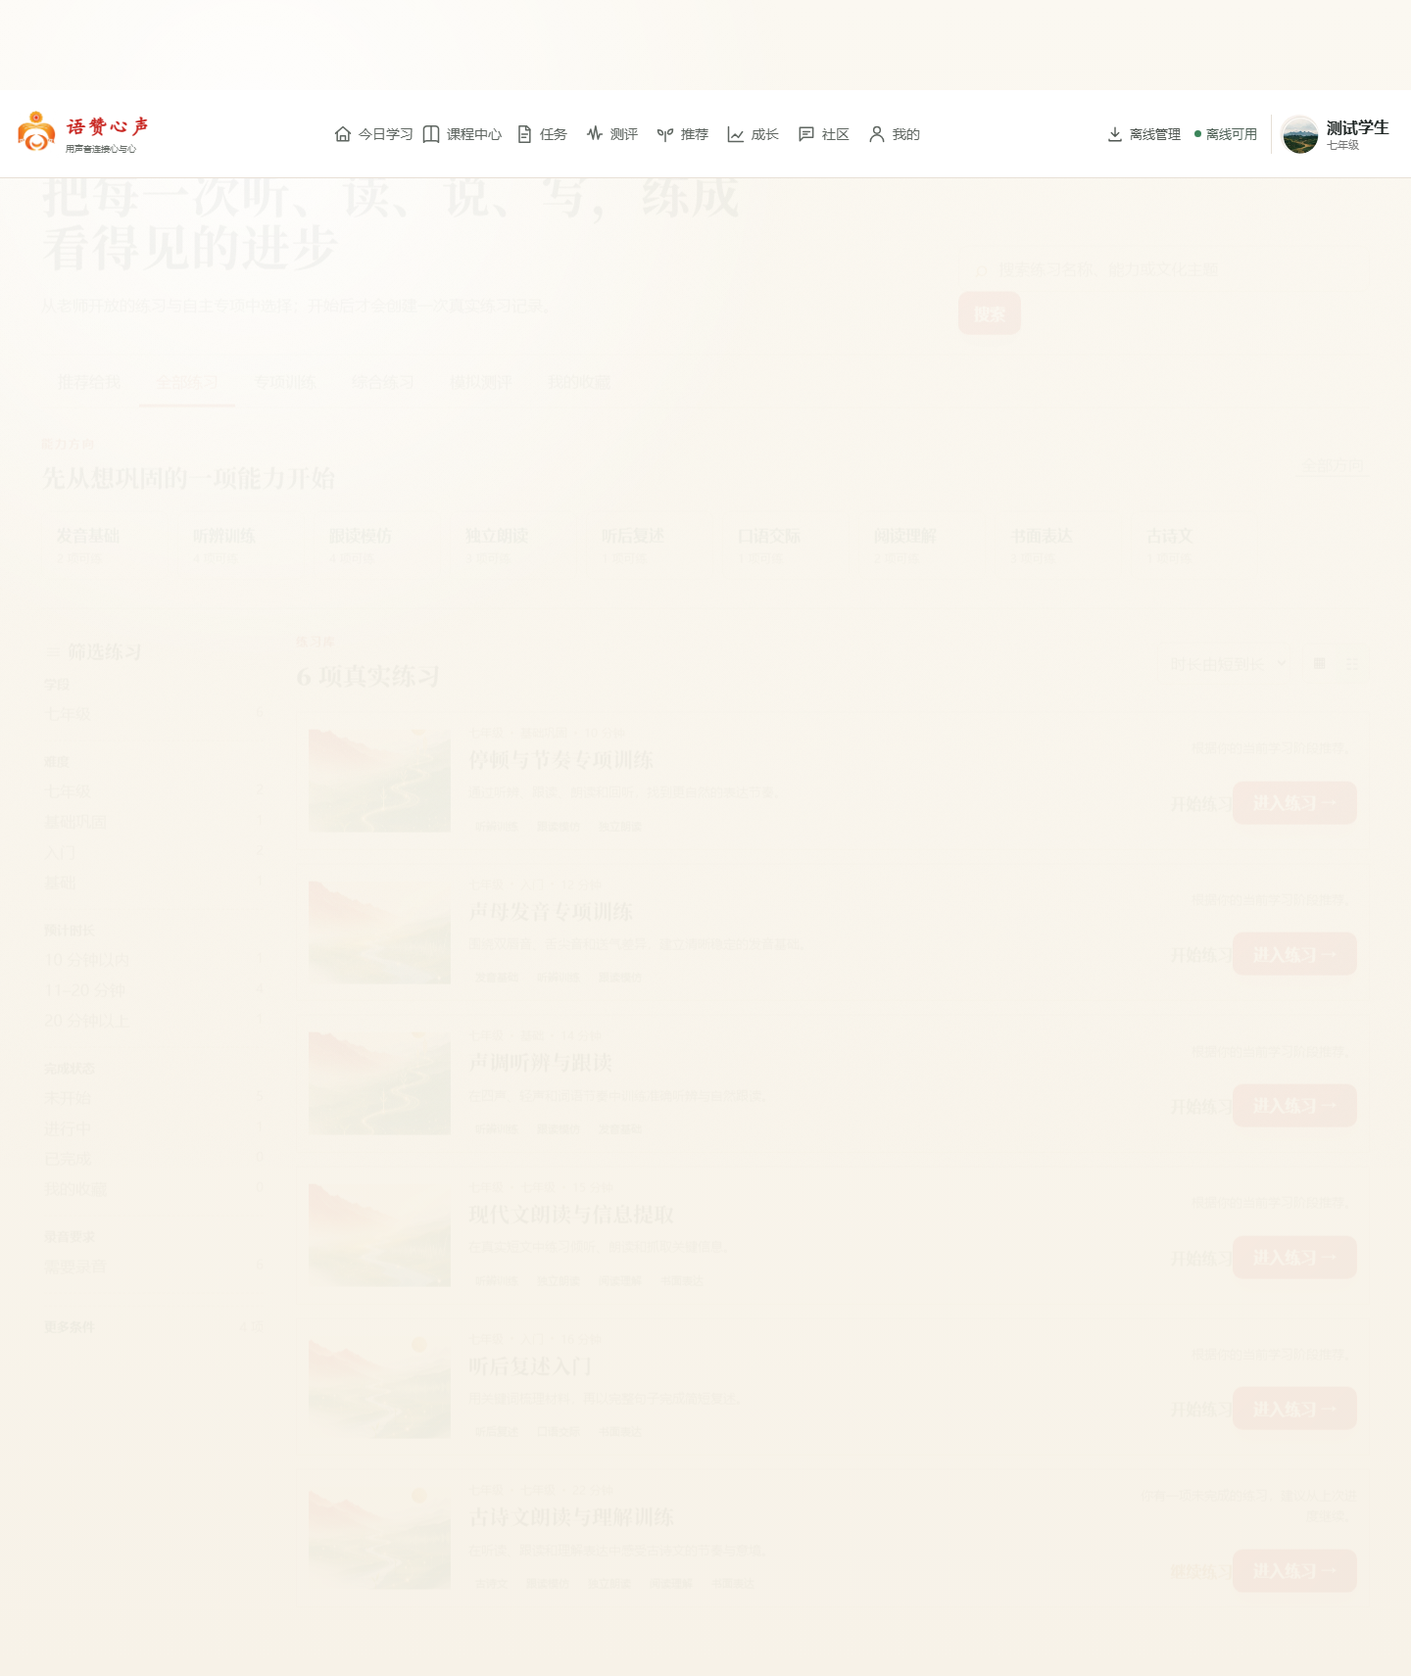
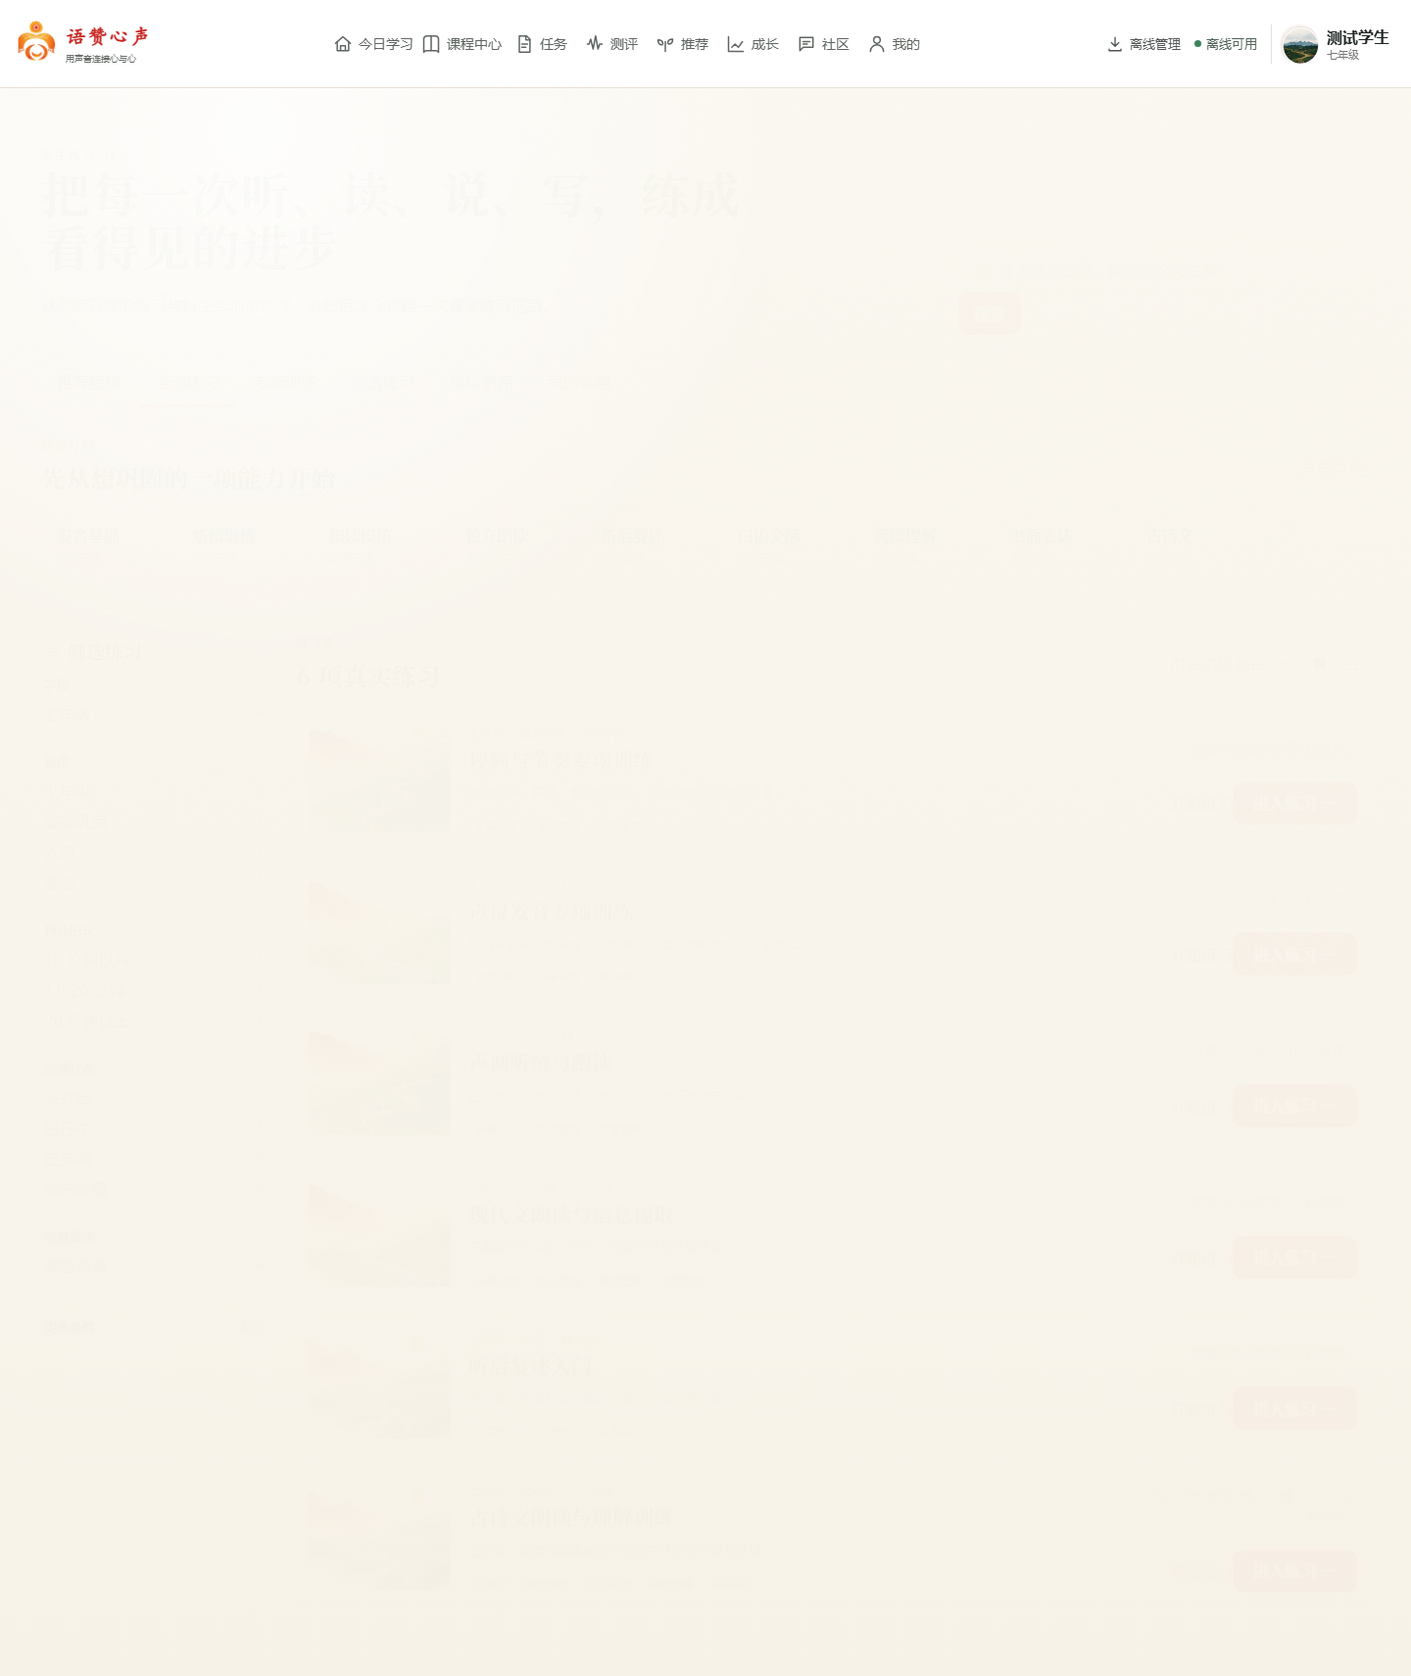
fix: keep catalog results stable while filtering

diff --git a/web-runtime/assessment/assets/practice.css b/web-runtime/assessment/assets/practice.css
@@ -8,7 +8,7 @@
 .catalog-tabs { display:flex; align-items:center; gap:2px; overflow-x:auto; border-top:1px solid var(--catalog-line); border-bottom:1px solid var(--catalog-line); }.catalog-tabs button { flex:0 0 auto; padding:16px 17px 13px; border:0; border-bottom:3px solid transparent; background:transparent; color:#5c685e; cursor:pointer; font:600 14px/1 inherit; }.catalog-tabs button.active { color:var(--catalog-clay); border-bottom-color:var(--catalog-clay); }
 .catalog-ability { padding:28px 0 25px; }.catalog-section-head,.result-toolbar,.filter-heading,.section-title { display:flex; justify-content:space-between; gap:16px; align-items:center; }.catalog-section-head h2,.result-toolbar h2 { margin:0; color:var(--catalog-ink); font-family:Georgia,"Noto Serif SC",serif; font-size:25px; }.text-action { color:var(--catalog-pine); border:0; border-bottom:1px solid currentColor; background:transparent; cursor:pointer; font:inherit; }.text-action.selected { opacity:.55; }
 .ability-rail { display:flex; gap:9px; margin-top:17px; overflow-x:auto; padding-bottom:4px; }.ability-button { min-width:130px; padding:13px 15px; text-align:left; border:1px solid #d8dfd4; border-radius:8px; background:#fcfbf6; color:var(--catalog-pine); cursor:pointer; transition:transform .2s,border-color .2s,background .2s; }.ability-button:hover,.ability-button.selected { transform:translateY(-2px); border-color:var(--catalog-ochre); background:#fff4df; }.ability-button b,.ability-button small { display:block; }.ability-button small { margin-top:5px; color:#7a837a; font-size:12px; }
-.catalog-workbench { display:grid; grid-template-columns:230px minmax(0,1fr); gap:30px; padding-top:25px; border-top:1px solid var(--catalog-line); }.catalog-filters { align-self:start; padding:4px 3px 10px; }.filter-heading h2 { margin:0; color:var(--catalog-ink); font:700 19px Georgia,"Noto Serif SC",serif; }.filter-group { padding:12px 0; border-bottom:1px dashed #d8d0bf; }.filter-group h3 { margin:0 0 6px; color:#56635b; font-size:13px; }.facet-chip { display:flex; justify-content:space-between; width:100%; padding:5px 0; border:0; background:transparent; color:#6d756f; cursor:pointer; text-align:left; font:13px/1.4 inherit; }.facet-chip:hover,.facet-chip.selected { color:var(--catalog-clay); font-weight:700; }.facet-chip small { color:#9b968c; }.more-filters { margin-top:12px; border-top:1px dashed #d8d0bf; }.more-filters summary { display:flex; justify-content:space-between; padding:12px 0; color:var(--catalog-pine); cursor:pointer; font-size:13px; font-weight:700; list-style:none; }.more-filters summary::-webkit-details-marker { display:none; }.more-filters summary span { color:#9b968c; font-weight:400; }.more-filters[open] summary { color:var(--catalog-clay); }.catalog-results { min-width:0; }.result-toolbar { margin-bottom:20px; }.result-actions { display:flex; align-items:center; gap:12px; }.result-actions select { border:1px solid var(--catalog-line); border-radius:7px; background:#fffdfa; padding:9px; color:#4f5d53; }.view-switch { display:flex; border:1px solid var(--catalog-line); border-radius:7px; overflow:hidden; }.view-switch button { padding:8px 10px; border:0; background:#fffdfa; cursor:pointer; }.view-switch button.active { background:#e8eee7; color:var(--catalog-pine); }.active-filter-row { display:flex; flex-wrap:wrap; gap:7px; margin-top:10px; }.active-filter { padding:5px 9px; border:1px solid #d7b67a; border-radius:99px; background:#fff6e6; color:#8d5d19; cursor:pointer; }
+.catalog-workbench { display:grid; grid-template-columns:230px minmax(0,1fr); gap:30px; padding-top:25px; border-top:1px solid var(--catalog-line); }.catalog-filters { align-self:start; padding:4px 3px 10px; }.filter-heading h2 { margin:0; color:var(--catalog-ink); font:700 19px Georgia,"Noto Serif SC",serif; }.filter-group { padding:12px 0; border-bottom:1px dashed #d8d0bf; }.filter-group h3 { margin:0 0 6px; color:#56635b; font-size:13px; }.facet-chip { display:flex; justify-content:space-between; width:100%; padding:5px 0; border:0; background:transparent; color:#6d756f; cursor:pointer; text-align:left; font:13px/1.4 inherit; }.facet-chip:hover,.facet-chip.selected { color:var(--catalog-clay); font-weight:700; }.facet-chip small { color:#9b968c; }.more-filters { margin-top:12px; border-top:1px dashed #d8d0bf; }.more-filters summary { display:flex; justify-content:space-between; padding:12px 0; color:var(--catalog-pine); cursor:pointer; font-size:13px; font-weight:700; list-style:none; }.more-filters summary::-webkit-details-marker { display:none; }.more-filters summary span { color:#9b968c; font-weight:400; }.more-filters[open] summary { color:var(--catalog-clay); }.catalog-results { min-width:0; position:relative; }.catalog-results.is-refreshing .practice-grid,.catalog-results.is-refreshing .practice-list { opacity:.72; transition:opacity .14s ease; }.catalog-refreshing { position:absolute; top:3px; right:0; display:inline-flex; align-items:center; gap:6px; color:#9a681e; font-size:12px; }.catalog-refreshing:before { content:""; width:7px; height:7px; border:1px solid #b77725; border-top-color:transparent; border-radius:50%; animation:catalog-spin .7s linear infinite; }@keyframes catalog-spin { to { transform:rotate(360deg); } }.result-toolbar { margin-bottom:20px; }.result-actions { display:flex; align-items:center; gap:12px; }.result-actions select { border:1px solid var(--catalog-line); border-radius:7px; background:#fffdfa; padding:9px; color:#4f5d53; }.view-switch { display:flex; border:1px solid var(--catalog-line); border-radius:7px; overflow:hidden; }.view-switch button { padding:8px 10px; border:0; background:#fffdfa; cursor:pointer; }.view-switch button.active { background:#e8eee7; color:var(--catalog-pine); }.active-filter-row { display:flex; flex-wrap:wrap; gap:7px; margin-top:10px; }.active-filter { padding:5px 9px; border:1px solid #d7b67a; border-radius:99px; background:#fff6e6; color:#8d5d19; cursor:pointer; }
 .practice-grid { display:grid; grid-template-columns:repeat(3,minmax(0,1fr)); gap:22px; }.practice-tile { overflow:hidden; border:1px solid var(--catalog-line); background:#fffefa; box-shadow:0 12px 30px rgba(54,51,38,.06); }.practice-cover { position:relative; display:block; height:185px; overflow:hidden; background:#d7dfd4; }.practice-cover img { width:100%; height:100%; object-fit:cover; transition:transform .45s ease; }.practice-tile:hover .practice-cover img { transform:scale(1.05); }.cover-shade { position:absolute; inset:0; background:linear-gradient(180deg,transparent 35%,rgba(29,49,38,.48)); }.practice-kind { position:absolute; left:13px; bottom:11px; padding:5px 8px; background:rgba(255,251,242,.88); color:#386052; font-size:12px; }.favorite-button { position:absolute; top:10px; right:10px; width:32px; height:32px; border:0; border-radius:50%; background:rgba(255,253,248,.9); color:var(--catalog-ochre); cursor:pointer; font-size:18px; }.favorite-button.is-favorite { color:var(--catalog-clay); }.practice-tile-body { padding:16px 17px 14px; }.practice-tile h2,.practice-row h2 { margin:8px 0; font:700 21px/1.25 Georgia,"Noto Serif SC",serif; color:var(--catalog-ink); }.practice-tile h2 a { color:inherit; text-decoration:none; }.practice-tile p,.practice-row p { margin:0; color:#6d766e; font-size:13px; line-height:1.65; }.practice-tile-meta { display:flex; flex-wrap:wrap; align-items:center; gap:7px; color:#8b8272; font-size:12px; }.practice-tile-meta i { width:3px; height:3px; border-radius:50%; background:#b69d79; }.tag-row { display:flex; flex-wrap:wrap; gap:5px; margin-top:12px; }.tag-row span { padding:4px 7px; background:#f1f4ee; color:#526859; font-size:11px; }.practice-tile-foot { display:flex; align-items:center; justify-content:space-between; gap:8px; margin-top:16px; padding-top:12px; border-top:1px solid #ece6d9; font-size:12px; }.practice-tile-foot a { color:var(--catalog-pine); text-decoration:none; }.practice-state-label { color:#5c775f; font-weight:700; }.practice-state-label.in_progress { color:#aa711e; }.practice-state-label.completed { color:#658176; }
 .practice-list { display:grid; gap:14px; }.practice-row { display:grid; grid-template-columns:145px minmax(0,1fr) 230px; gap:18px; align-items:center; padding:12px; border:1px solid var(--catalog-line); background:#fffefa; }.practice-row>img { width:145px; height:105px; object-fit:cover; }.practice-row-state { text-align:right; }.practice-row-state p { margin-bottom:12px; }.practice-row-state .btn { margin-top:11px; }.load-more { display:block; margin:28px auto 0; border:1px solid var(--catalog-ochre); background:#fffaf0; color:#8d5d19; padding:11px 22px; cursor:pointer; }
 .practice-state { position:relative; z-index:1; display:flex; align-items:center; justify-content:center; gap:28px; min-height:330px; padding:30px; text-align:left; border:1px solid var(--catalog-line); background:#fffdf8; }.practice-state .loading-spinner { margin:0; }.practice-state img { width:min(265px,40%); max-height:220px; object-fit:cover; mix-blend-mode:multiply; }.practice-state h2 { margin:0 0 10px; color:var(--catalog-ink); font:700 29px Georgia,"Noto Serif SC",serif; }.practice-state p { color:#6c756e; line-height:1.7; }.practice-error { border-color:#dfb8aa; }.no-results { margin-top:18px; }

diff --git a/web-runtime/assessment/assets/practice.js b/web-runtime/assessment/assets/practice.js
@@ -11,7 +11,7 @@
     ['RECOMMENDED', '推荐给我'], ['ALL', '全部练习'], ['SPECIALIZED', '专项训练'],
     ['COMPREHENSIVE', '综合练习'], ['MOCK', '模拟测评'], ['FAVORITE', '我的收藏'],
   ];
-  const state = { query: '', tab: 'RECOMMENDED', filters: {}, sort: 'RECOMMENDED', view: 'grid', cursor: null, catalog: null, loadingMore: false };
+  const state = { query: '', tab: 'RECOMMENDED', filters: {}, sort: 'RECOMMENDED', view: 'grid', cursor: null, catalog: null, loadingMore: false, requestSerial: 0 };
   const safe = value => String(value ?? '').replace(/[&<>"']/g, character => ({ '&': '&amp;', '<': '&lt;', '>': '&gt;', '"': '&quot;', "'": '&#39;' }[character]));
   const shell = body => `<div class="shell practice-${page}"><main class="page practice-page"><div class="practice-contours"></div>${body}</main></div>`;
   const icon = name => ({ search: '⌕', filter: '≡', grid: '▦', list: '☷', arrow: '→', star: '☆', filledStar: '★', clock: '◷', mic: '◉', close: '×', book: '▤' }[name] || '•');
@@ -42,15 +42,34 @@
     app.innerHTML = shell(`<section class="practice-catalog-head"><div class="catalog-intro"><p class="eyebrow">学生练习中心</p><h1>把每一次听、读、说、写，练成看得见的进步</h1><p>从老师开放的练习与自主专项中选择；开始后才会创建一次真实练习记录。</p></div><form class="catalog-search" data-search-form><label><span>${icon('search')}</span><input data-search-input value="${safe(state.query)}" placeholder="搜索练习名称、能力或文化主题"></label><button class="btn primary" type="submit">搜索</button></form></section><nav class="catalog-tabs" aria-label="练习范围">${tabs.map(([value, label]) => `<button class="${state.tab === value ? 'active' : ''}" data-tab="${value}">${label}</button>`).join('')}</nav><section class="catalog-ability"><div class="catalog-section-head"><div><p class="eyebrow">能力方向</p><h2>先从想巩固的一项能力开始</h2></div><button class="text-action ${selectedCategory ? '' : 'selected'}" data-clear-filter="abilityCategory">全部方向</button></div><div class="ability-rail">${categoryOrder.filter(category => abilityFacets.some(item => item.value === category)).map(category => { const facet = abilityFacets.find(item => item.value === category); return `<button class="ability-button ${selectedCategory === category ? 'selected' : ''}" data-filter-key="abilityCategory" data-filter-value="${safe(category)}"><b>${safe(category)}</b><small>${facet.count} 项可练</small></button>`; }).join('')}</div></section><section class="catalog-workbench"><aside class="catalog-filters"><div class="filter-heading"><h2>${icon('filter')} 筛选练习</h2>${activeFilters ? '<button class="text-action" data-clear-all>清除全部</button>' : ''}</div><div class="filter-group"><h3>学段</h3>${facetValues('gradeBand').map(item => chip(item.value, item.value, 'gradeBand', item.count)).join('')}</div><div class="filter-group"><h3>难度</h3>${facetValues('difficulty').map(item => chip(item.value, item.value, 'difficulty', item.count)).join('')}</div><div class="filter-group"><h3>预计时长</h3>${facetValues('duration').map(item => chip(({ SHORT: '10 分钟以内', MEDIUM: '11–20 分钟', LONG: '20 分钟以上' })[item.value], item.value, 'duration', item.count)).join('')}</div><div class="filter-group"><h3>题型</h3>${facetValues('itemType').map(item => chip(item.value.replaceAll('_', ' '), item.value, 'itemType', item.count)).join('')}</div><div class="filter-group"><h3>文化主题</h3>${facetValues('cultureTag').map(item => chip(item.value, item.value, 'cultureTag', item.count)).join('')}</div><div class="filter-group"><h3>完成状态</h3>${facetValues('completionStatus').map(item => chip(({ NOT_STARTED: '未开始', IN_PROGRESS: '进行中', COMPLETED: '已完成', FAVORITE: '我的收藏' })[item.value], item.value, 'completionStatus', item.count)).join('')}</div></aside><section class="catalog-results"><div class="result-toolbar"><div><p class="eyebrow">${state.tab === 'RECOMMENDED' ? '针对我的薄弱项' : '练习库'}</p><h2>${catalog.total} 项真实练习</h2>${activeFilters ? `<div class="active-filter-row">${activeFilters}</div>` : ''}</div><div class="result-actions"><select data-sort aria-label="排序"><option value="RECOMMENDED" ${state.sort === 'RECOMMENDED' ? 'selected' : ''}>优先推荐</option><option value="DURATION_ASC" ${state.sort === 'DURATION_ASC' ? 'selected' : ''}>时长由短到长</option><option value="DURATION_DESC" ${state.sort === 'DURATION_DESC' ? 'selected' : ''}>时长由长到短</option><option value="TITLE" ${state.sort === 'TITLE' ? 'selected' : ''}>按名称</option></select><div class="view-switch"><button data-view="grid" class="${state.view === 'grid' ? 'active' : ''}" aria-label="网格视图">${icon('grid')}</button><button data-view="list" class="${state.view === 'list' ? 'active' : ''}" aria-label="列表视图">${icon('list')}</button></div></div></div>${results.length ? `<div class="${state.view === 'grid' ? 'practice-grid' : 'practice-list'}">${results.map(state.view === 'grid' ? card : listRow).join('')}</div>${catalog.nextCursor ? '<button class="load-more" data-load-more>加载更多练习</button>' : ''}` : `<div class="practice-state no-results"><img src="/assessment/assets/practice-catalog/snow-peak-success.png" alt=""><div><h2>${state.query || activeFilters ? '没有匹配的练习' : '暂时没有开放练习'}</h2><p>${state.query || activeFilters ? '可以清除部分筛选条件，或换一个关键词再试。' : '老师开放练习后会在这里出现；练习内容不会由 Attempt 列表代替。'}</p>${state.query || activeFilters ? '<button class="btn" data-clear-all>清除筛选</button>' : ''}</div></div>`}</section></section>`);
     bindCatalog();
   }
+  const setCatalogRefreshing = refreshing => {
+    const results = document.querySelector('.catalog-results');
+    if (!results) return;
+    results.classList.toggle('is-refreshing', refreshing);
+    results.setAttribute('aria-busy', String(refreshing));
+    let indicator = results.querySelector('[data-catalog-refreshing]');
+    if (refreshing && !indicator) {
+      indicator = document.createElement('span');
+      indicator.dataset.catalogRefreshing = 'true';
+      indicator.className = 'catalog-refreshing';
+      indicator.textContent = '正在更新结果';
+      results.querySelector('.result-toolbar')?.append(indicator);
+    }
+    if (!refreshing) indicator?.remove();
+  };
   async function refreshCatalog({ resetCursor = true } = {}) {
     if (resetCursor) state.cursor = null;
-    loading();
+    const serial = ++state.requestSerial;
+    if (!state.catalog) loading(); else setCatalogRefreshing(true);
     try {
       const result = await Api.listPractices(requestFilters());
+      if (serial !== state.requestSerial) return;
       state.catalog = result;
       catalogView();
     } catch (err) {
-      error(err.message || '后端服务暂不可用', err.status);
+      if (serial !== state.requestSerial) return;
+      if (!state.catalog) error(err.message || '后端服务暂不可用', err.status);
+      else setCatalogRefreshing(false);
     }
   }
   async function toggleFavorite(id, button) {

diff --git a/web-runtime/assessment/practice-shell.html b/web-runtime/assessment/practice-shell.html
@@ -1,3 +1,3 @@
 <!doctype html>
-<html lang="zh-CN"><head><meta charset="utf-8"><meta name="viewport" content="width=device-width,initial-scale=1,viewport-fit=cover"><meta name="theme-color" content="#f7f2e8"><title>语赞心声 · 练习中心</title><link rel="stylesheet" href="/assessment/assets/app.css?v=202607211100"><link rel="stylesheet" href="/assessment/assets/practice.css?v=202607212230"><link rel="stylesheet" href="/shared/student-nav.css?v=202607192330"></head>
-<body data-practice-page="__ASSESSMENT_PAGE__"><div id="app" aria-live="polite"><div class="assessment-loading"><div class="loading-spinner"></div><p>正在加载练习内容…</p></div></div><script src="/assets/api-client.js?v=202607212230"></script><script src="/assessment/assets/practice.js?v=202607212230" defer></script><script src="/shared/student-nav.js?v=202607192330"></script></body></html>
+<html lang="zh-CN"><head><meta charset="utf-8"><meta name="viewport" content="width=device-width,initial-scale=1,viewport-fit=cover"><meta name="theme-color" content="#f7f2e8"><title>语赞心声 · 练习中心</title><link rel="stylesheet" href="/assessment/assets/app.css?v=202607211100"><link rel="stylesheet" href="/assessment/assets/practice.css?v=202607212250"><link rel="stylesheet" href="/shared/student-nav.css?v=202607192330"></head>
+<body data-practice-page="__ASSESSMENT_PAGE__"><div id="app" aria-live="polite"><div class="assessment-loading"><div class="loading-spinner"></div><p>正在加载练习内容…</p></div></div><script src="/assets/api-client.js?v=202607212250"></script><script src="/assessment/assets/practice.js?v=202607212250" defer></script><script src="/shared/student-nav.js?v=202607192330"></script></body></html>

diff --git a/tests/e2e/assessment/verify_practice_catalog_scope.py b/tests/e2e/assessment/verify_practice_catalog_scope.py
@@ -1,4 +1,5 @@
 import json
+import time
 from pathlib import Path
 
 from playwright.sync_api import sync_playwright
@@ -63,10 +64,21 @@ with sync_playwright() as playwright:
     page.screenshot(path=str(OUT / "catalog-desktop.png"), full_page=True)
     print("catalog desktop verified", flush=True)
 
-    # Search is served by the catalog API, not by a front-end fixture.
+    # A delayed real request must leave the existing result list in place; the
+    # catalogue uses only a small pending indicator rather than a full-page
+    # loading replacement.
+    def delay_catalog(route):
+        time.sleep(0.35)
+        route.continue_()
+
+    page.route("**/api/v1/schools/*/practices?**", delay_catalog)
     page.locator("[data-search-input]").fill("声母")
     page.locator("[data-search-form]").press("Enter")
+    assert page.locator(".practice-tile").count() >= 6
+    page.locator("[data-catalog-refreshing]").wait_for(timeout=2_000)
     wait_catalog(page)
+    page.unroute("**/api/v1/schools/*/practices?**", delay_catalog)
+    # Search is served by the catalog API, not by a front-end fixture.
     assert page.locator(".practice-tile h2").all_inner_texts() == ["声母发音专项训练"]
     print("search verified", flush=True)
 
